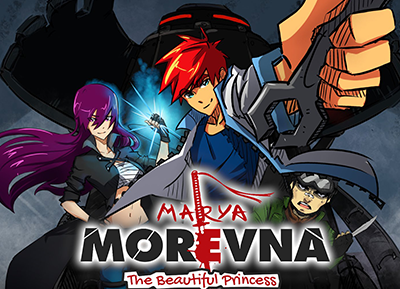
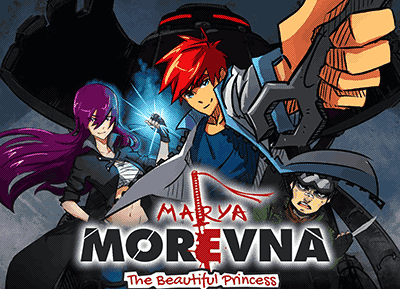
Optimize images. Thanks to Victor aka TuXel.
"The first page of the site is 1.8 megas of images. After treatment we have only 464 Kb, it's to say 4 times lighter."

diff --git a/_includes/services.html b/_includes/services.html
@@ -9,17 +9,17 @@
             </div>
             <div class="row text-center">
 			  <div class="col-md-4">
-					<img class = "imgborder" src="img/laye.png" width = "200px" height = "200px" alt="">
+					<img class = "imgborder" src="img/layers.jpg" width = "200px" height = "200px" alt="">
                     <h4 class="service-heading">Layers</h4>
                     <p class="text-secondary">Synfig supports a multitude of layers of various types; geometric, gradients, filters, distortions, transformations, fractal and a few others.</p>
                 </div>
                 <div class="col-md-4">
-					<img class = "imgborder" src="img/skel-bone.png" width = "200px" height = "200px" alt="">
+					<img class = "imgborder" src="img/skel-bone.jpg" width = "200px" height = "200px" alt="">
                     <h4 class="service-heading">Bones</h4>
                     <p class="text-secondary">Full-featured bone system allows to create cutout animation using bitmap images or control your vector artwork. The Skeleton Distortion layer allows to apply complex deformations to bitmap artwork.</p>
                 </div>
                 <div class="col-md-4">
-					<img class = "imgborder" src="img/music.png" width = "200px" height = "200px" alt="">
+					<img class = "imgborder" src="img/music.jpg" width = "200px" height = "200px" alt="">
                     <h4 class="service-heading">Sound support</h4>
                     <p class="text-secondary">Synfig has basic features for syncing your animation with soundtrack using Sound Layer. Linux users can get all benefits of full-featured audio editors through the JACK integration.</p>
                 </div>

diff --git a/_includes/team.html b/_includes/team.html
@@ -11,9 +11,9 @@
             <!-- Download Section -->
 			<div class="download-docs">
 				<div align = center>
-					<a href='https://github.com/synfig/synfig/issues'><img src="img/bug-track.png" width="350" alt="" ></a>
-					<a href='http://synfig.org/forums/'><img src="img/forum.png" width="350" alt="" ></a>
-					<a href='https://lists.sourceforge.net/lists/listinfo/synfig-user'><img src="img/mail-list.png" width="350" alt="" ></a>
+					<a href='https://github.com/synfig/synfig/issues'><img src="img/bug-track.jpg" width="350" alt="" ></a>
+					<a href='http://synfig.org/forums/'><img src="img/forum.jpg" width="350" alt="" ></a>
+					<a href='https://lists.sourceforge.net/lists/listinfo/synfig-user'><img src="img/mail-list.jpg" width="350" alt="" ></a>
 				</div>
 			</div> 
         </div>

diff --git a/_includes/download.html b/_includes/download.html
@@ -5,8 +5,8 @@
                 </div>
 		<div class="download-buttons">
 				<div align = center>
-					<a href='http://www.synfig.org/cms/en/download/'><img src="img/download.png" width="500" alt="" ></a>
-					<a href='https://gumroad.com/a/863974515' target="_blank"><img src="img/download-dev.png" width="500" alt="" ></a>
+					<a href='http://www.synfig.org/cms/en/download/'><img src="img/download.jpg" width="500" alt="" ></a>
+					<a href='https://gumroad.com/a/863974515' target="_blank"><img src="img/download-dev.jpg" width="500" alt="" ></a>
 				</div>
 		</div>
 	</div>

diff --git a/_includes/header.html b/_includes/header.html
@@ -41,7 +41,7 @@
     <header>
         <div class="container">
             <div class="intro-text">
-			    <img src="img/logo.jpg" width="450" height="450" alt="" >
+			    <img src="img/logo.png" width="354" height="486" alt="" >
                 <div class="intro-heading">Synfig Studio</div>
 				<div class="intro-lead-in">Open-source 2D animation software</div>
 				<div class="screenshot"></div>
